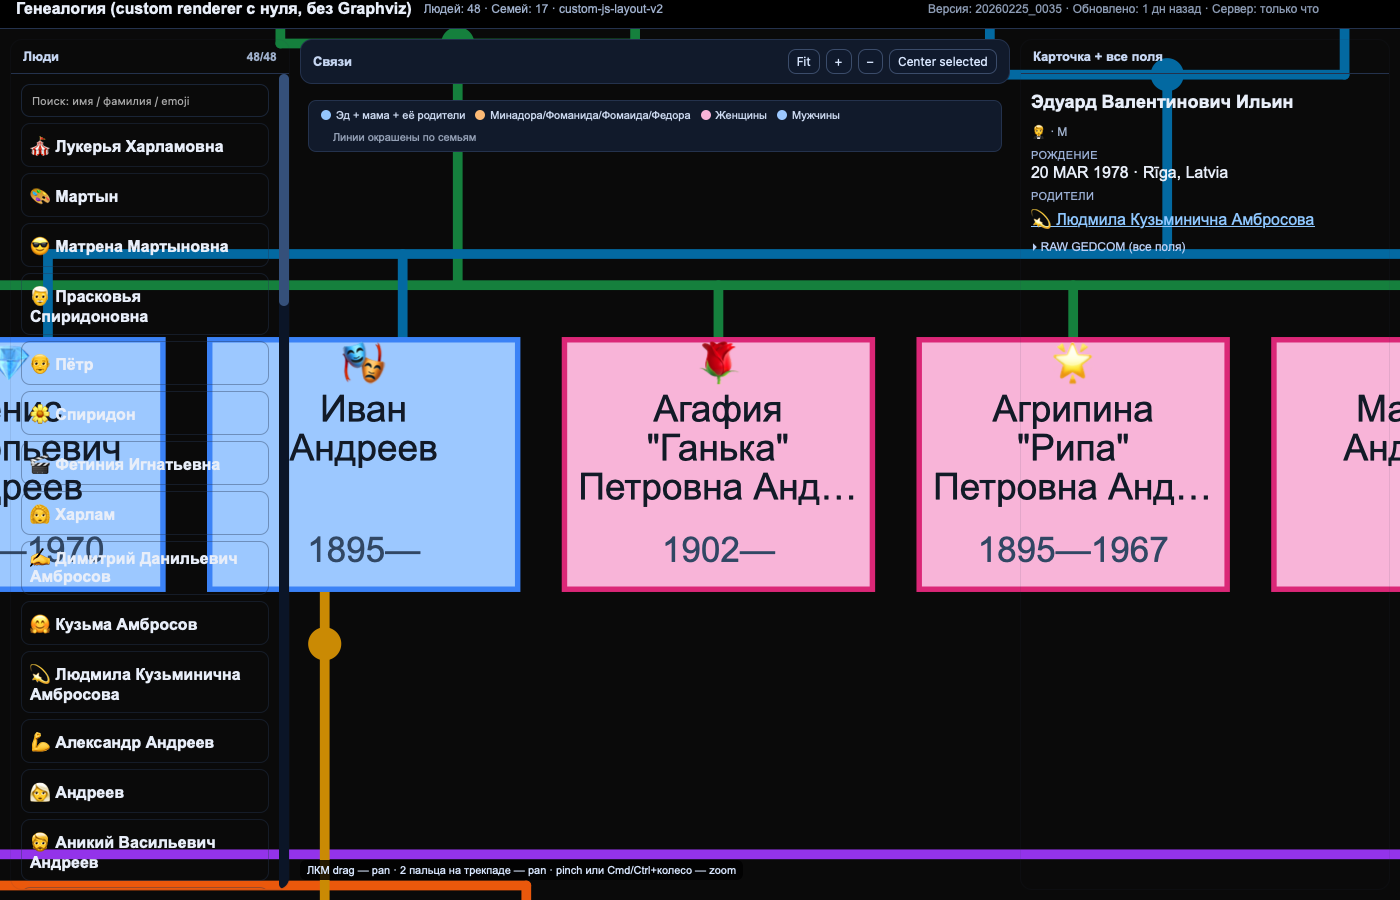
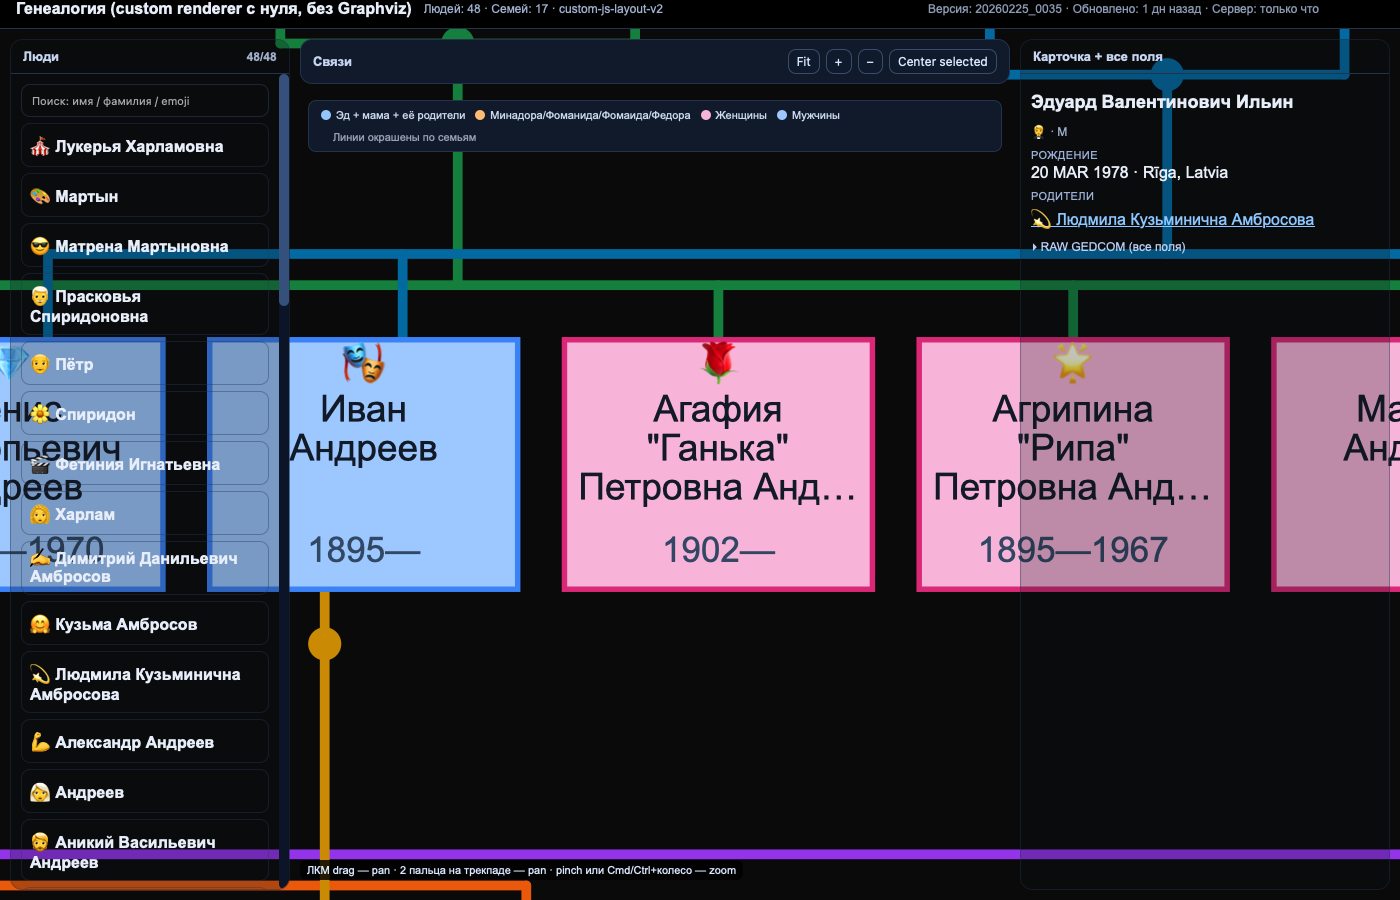
style: reduce glassmorphism blur to make cards clearly visible

diff --git a/index.html b/index.html
@@ -93,11 +93,11 @@ details summary{cursor:pointer;color:#b9cef4;font-size:12px}
 @media(min-width:1101px){
   .layout{position:relative}
   .layout > .panel:nth-child(1), .layout > .panel:nth-child(3){
-    background:rgba(10, 15, 25, 0) !important;
-    backdrop-filter:blur(30px);
-    -webkit-backdrop-filter:blur(30px);
+    background:rgba(10, 15, 25, 0.2) !important;
+    backdrop-filter:blur(4px);
+    -webkit-backdrop-filter:blur(4px);
     z-index:10;
-    border-color:rgba(36, 50, 77, 0.1);
+    border-color:rgba(36, 50, 77, 0.4);
   }
   /* Делаем внутренние карточки списка и поля полностью прозрачными */
   .layout > .panel:nth-child(1) input {
